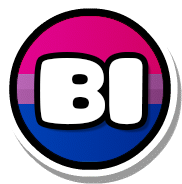
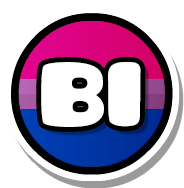
update circle button textures

diff --git a/src/hooks/RewardsPage.cpp b/src/hooks/RewardsPage.cpp
@@ -29,7 +29,7 @@ class $modify(BIRewardsPage, RewardsPage) {
             this,
             menu_selector(BIRewardsPage::onRewardsPageHistory)
         );
-        historyBtn->setPosition({-147,-88});
+        historyBtn->setPosition({-147,-87});
         this->m_buttonMenu->addChild(historyBtn);
         historyBtn->setID("history-button"_spr);
 
